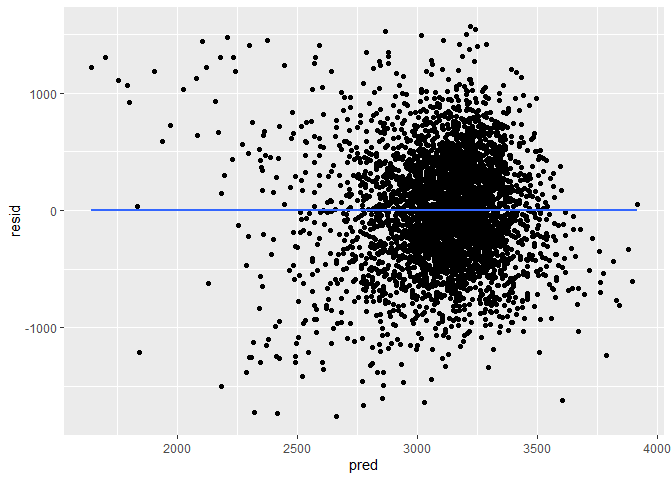
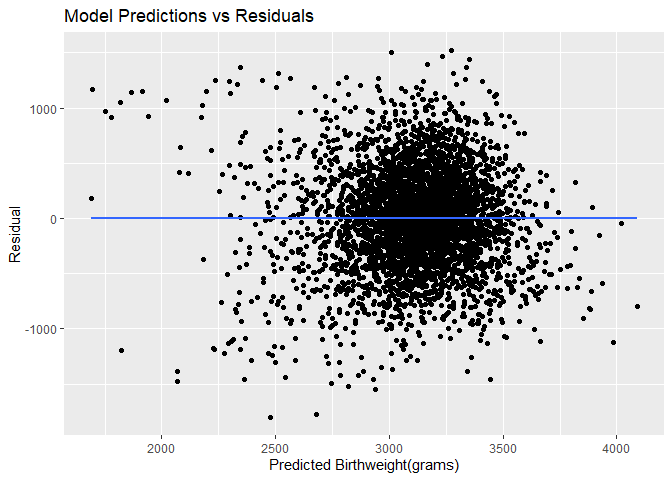
further edits on homework problems

diff --git a/p8105_hw6_ar4173.md b/p8105_hw6_ar4173.md
@@ -9,7 +9,8 @@ Importing Data and Checking Missing Data
 
 ``` r
 birthweight =
-  read_csv(file = "./data/birthweight.csv")
+  read_csv(file = "./data/birthweight.csv") %>% 
+  drop_na()
 ```
 
     ## Rows: 4342 Columns: 20
@@ -43,7 +44,7 @@ birthweight %>%
 str(birthweight_df)
 ```
 
-    ## spec_tbl_df [4,342 x 20] (S3: spec_tbl_df/tbl_df/tbl/data.frame)
+    ## tibble [4,342 x 20] (S3: tbl_df/tbl/data.frame)
     ##  $ babysex : Factor w/ 2 levels "male","female": 2 1 2 1 2 1 2 2 1 1 ...
     ##  $ bhead   : num [1:4342] 34 34 36 34 34 33 33 33 36 33 ...
     ##  $ blength : num [1:4342] 51 48 50 52 52 52 46 49 52 50 ...
@@ -64,104 +65,92 @@ str(birthweight_df)
     ##  $ ppwt    : num [1:4342] 148 128 137 127 130 115 105 119 105 145 ...
     ##  $ smoken  : num [1:4342] 0 0 1 10 1 0 0 0 0 4 ...
     ##  $ wtgain  : num [1:4342] 29 28 11 30 26 14 21 21 41 24 ...
-    ##  - attr(*, "spec")=
-    ##   .. cols(
-    ##   ..   babysex = col_double(),
-    ##   ..   bhead = col_double(),
-    ##   ..   blength = col_double(),
-    ##   ..   bwt = col_double(),
-    ##   ..   delwt = col_double(),
-    ##   ..   fincome = col_double(),
-    ##   ..   frace = col_double(),
-    ##   ..   gaweeks = col_double(),
-    ##   ..   malform = col_double(),
-    ##   ..   menarche = col_double(),
-    ##   ..   mheight = col_double(),
-    ##   ..   momage = col_double(),
-    ##   ..   mrace = col_double(),
-    ##   ..   parity = col_double(),
-    ##   ..   pnumlbw = col_double(),
-    ##   ..   pnumsga = col_double(),
-    ##   ..   ppbmi = col_double(),
-    ##   ..   ppwt = col_double(),
-    ##   ..   smoken = col_double(),
-    ##   ..   wtgain = col_double()
-    ##   .. )
-    ##  - attr(*, "problems")=<externalptr>
 
 Model Building
 
-Included the following models in my model as I hypothesized they would
-have an impact on the baby’s birth weight
+Included the following variables in my model as I hypothesized they
+would have an impact on the baby’s birth weight
 
 gaweeks: Gestational Age in Weeks, I hypothesize that the longer the
-gestational age is the greater the baby birthweight momage: Mother’s age
-at delivery(years), I hypothesize that as the age of the mother
-increases, the baby’s birthweight decreases malform: Presence of
-malformations that could affect weight (0 = absent, 1 = present), I
-hypothesize that the presence of malformations will decrease the baby’s
-birthweighth on average smoken: average number of cigarettes smoked per
-day during pregnancy, I hypothesize that the greater the average number
-of smoked ciagrettes per day, the lower the baby birthweight
-smoken\*malform: Interaction term between average number of cigarettes
-smoked and presence of malformations, I hypoethsize the interaction is
-significant
+gestational age is the greater the baby birth weight wtgain: mother’s
+weight gain during pregnancy(pounds), I hypothesize that the greater the
+weight gain during pregnancy, the greater the baby’s birth weight
+momage: Mother’s age at delivery(years), I hypothesize that as the age
+of the mother increases, the baby’s birth weight decreases malform:
+Presence of malformations that could affect weight (0 = absent, 1 =
+present), I hypothesize that the presence of malformations will decrease
+the baby’s birth weight on average smoken: average number of cigarettes
+smoked per day during pregnancy, I hypothesize that the greater the
+average number of smoked cigarettes per day, the lower the baby birth
+weight smoken\*malform: Interaction term between average number of
+cigarettes smoked and presence of malformations, I hypothesize the
+interaction is significant
 
 ``` r
-fit_mod= lm(bwt ~ gaweeks +  momage + malform + smoken + (smoken*malform), data = birthweight_df )
+fit_mod= lm(bwt ~ gaweeks+ wtgain + momage + malform + smoken + (smoken*malform), data = birthweight_df )
 fit_mod %>% broom::tidy()
 ```
 
-    ## # A tibble: 6 x 5
+    ## # A tibble: 7 x 5
     ##   term                  estimate std.error statistic   p.value
     ##   <chr>                    <dbl>     <dbl>     <dbl>     <dbl>
-    ## 1 (Intercept)             285.      92.0        3.10 1.92e-  3
-    ## 2 gaweeks                  65.8      2.24      29.4  1.53e-173
-    ## 3 momage                   12.9      1.82       7.05 2.04e- 12
-    ## 4 malformpresent          237.     154.         1.54 1.23e-  1
-    ## 5 smoken                   -6.61     0.953     -6.94 4.65e- 12
-    ## 6 malformpresent:smoken   -23.4     11.6       -2.02 4.39e-  2
+    ## 1 (Intercept)             224.      89.7        2.49 1.27e-  2
+    ## 2 gaweeks                  60.5      2.21      27.4  2.01e-152
+    ## 3 wtgain                    9.65     0.635     15.2  8.00e- 51
+    ## 4 momage                   15.9      1.79       8.86 1.10e- 18
+    ## 5 malformpresent          209.     150.         1.39 1.63e-  1
+    ## 6 smoken                   -6.99     0.929     -7.53 6.34e- 14
+    ## 7 malformpresent:smoken   -27.1     11.3       -2.39 1.70e-  2
 
 ``` r
-fit_mod %>% 
-  broom::glance()
+fit_mod %>% broom::glance()
 ```
 
     ## # A tibble: 1 x 12
     ##   r.squared adj.r.squared sigma statistic   p.value    df  logLik    AIC    BIC
     ##       <dbl>         <dbl> <dbl>     <dbl>     <dbl> <dbl>   <dbl>  <dbl>  <dbl>
-    ## 1     0.188         0.187  462.      201. 3.56e-193     5 -32796. 65606. 65651.
+    ## 1     0.229         0.228  450.      215. 1.17e-240     6 -32684. 65383. 65434.
     ## # ... with 3 more variables: deviance <dbl>, df.residual <int>, nobs <int>
-
-``` r
-fixed_mod = lm(bwt ~ blength + gaweeks, data=birthweight_df)
-interaction_mod = lm(bwt ~ bhead + blength + babysex + bhead*blength + bhead*babysex + blength*babysex, data=birthweight_df)
-```
 
 From analyzing the p-values and model coefficients, the predictor
 variables are significant with the exception of malformpresent.
 Malformpresent was the only variable that did not have a significant
-p-value (p-value = 0.1225)
+p-value (p-value = 0.1225). Though the overall r-squared is low for the
+model(r-squared = 22.92%), the p-value for the model is significant.
+Furthermore, given background literature and my hypothesis, we will
+proceed forward with these variables in the model.
 
 Now lets evaluate the residuals
 
 ``` r
+residual_plot =
 birthweight_df %>% 
   add_predictions(fit_mod) %>% 
   add_residuals(fit_mod) %>% 
   ggplot(aes(x=pred, y=resid)) +
   geom_point()  +
-  geom_smooth(method= "lm", se = FALSE)
+  geom_smooth(method= "lm", se = FALSE) +
+  labs(x= "Predicted Birthweight(grams)", y="Residual",title = "Model Predictions vs Residuals")
+
+residual_plot
 ```
 
     ## `geom_smooth()` using formula 'y ~ x'
 
 ![](p8105_hw6_ar4173_files/figure-gfm/unnamed-chunk-4-1.png)<!-- -->
 
-From looking at the graph we see that the residuals are randomly
-scattered and do not have a definitive trend. Thus
+From looking at the graph we see that the residuals are somewhat
+randomly scattered. There is a bit of clustering, which will be noted
+moving forward in our model building process.
 
 Now lets compare the created model to the other two models
+
+``` r
+fixed_mod = lm(bwt ~ blength + gaweeks, data=birthweight_df)
+interaction_mod = lm(bwt ~ bhead + blength + babysex + bhead*blength + bhead*babysex + blength*babysex, data=birthweight_df)
+```
+
+Cross Validate to Comparison Models
 
 ``` r
 set.seed(7777)
@@ -182,6 +171,7 @@ cv_df =
 ```
 
 ``` r
+cv_boxplot =
 cv_df %>% 
   select(starts_with("rmse")) %>% 
   pivot_longer(
@@ -191,13 +181,20 @@ cv_df %>%
     names_prefix = "rmse_") %>% 
   mutate(model = fct_inorder(model)) %>% 
   ggplot(aes(x = model, y = rmse)) + geom_boxplot()
+
+cv_boxplot
 ```
 
-![](p8105_hw6_ar4173_files/figure-gfm/unnamed-chunk-6-1.png)<!-- -->
+![](p8105_hw6_ar4173_files/figure-gfm/unnamed-chunk-7-1.png)<!-- -->
+
+By analyzing the box plot, we see that the RMSE of the constructed model
+is much greater than compared to the other two models. Based on these
+results, we should revisit the model we constructed and possibly adjust
+or add predictor variables.
 
 ## Problem 2
 
-Importing Dataset
+Importing Data set
 
 ``` r
 weather_df = 
@@ -253,11 +250,75 @@ as_data_frame(bootstrap_weather$strap[[1]])
     ## 10 CentralPark_NY USW00094728 2017-08-07   193  21.7  17.8
     ## # ... with 355 more rows
 
+Calculating r^2 and log(β<sup>0∗β</sup>1) for each bootstrap sample
+
 ``` r
 bootstrap_results=
 bootstrap_weather %>% 
   mutate(
     models = map(strap, ~lm(tmax ~ tmin, data=.x)),
     results = map(models, broom::tidy),
-    glance = map(models, broom::glance))
+    glance = map(models, broom::glance)) %>% 
+  select(-strap,-models) %>% 
+  unnest(glance,results) %>% 
+  group_by(.id)
 ```
+
+    ## Warning: unnest() has a new interface. See ?unnest for details.
+    ## Try `df %>% unnest(c(glance, results))`, with `mutate()` if needed
+
+``` r
+bootstrap = 
+  bootstrap_results %>% 
+  select(.id, estimate, term, r.squared, adj.r.squared) %>% 
+  pivot_wider(names_from = term, values_from = estimate) %>% 
+  janitor::clean_names() %>% 
+  mutate(log_var = log(intercept * tmin)) 
+```
+
+Distributions of R^2 and log(β<sup>0∗β</sup>1)
+
+``` r
+r_squared_distribution = 
+  bootstrap %>% 
+  ggplot(aes(x = r_squared)) +
+  geom_density(alpha = 0.2) +  
+  labs(title = "Distribution of r2")
+
+r_squared_distribution
+```
+
+![](p8105_hw6_ar4173_files/figure-gfm/unnamed-chunk-12-1.png)<!-- -->
+
+``` r
+log_var_distribution =
+  bootstrap %>% 
+  ggplot(aes(x = log_var)) +
+  geom_density(alpha = 0.2) +
+  labs(title = "Distribution of log_var")
+
+log_var_distribution
+```
+
+![](p8105_hw6_ar4173_files/figure-gfm/unnamed-chunk-13-1.png)<!-- -->
+
+Both distributions look approximately normal.
+
+``` r
+r_squared_bounds = 
+  quantile(pull(bootstrap, r_squared), probs = c(.025, 0.975), names = FALSE, type = 4)
+
+log_var_bounds = 
+  quantile(pull(bootstrap, log_var), probs = c(.025, 0.975), names = FALSE, type = 4)
+
+data.frame(estimate = c("r_squared", "log_var"),
+          lower_bound = c(r_squared_bounds[[1]], log_var_bounds[[1]]),
+          upper_bound = c(r_squared_bounds[[2]], log_var_bounds[[2]]))
+```
+
+    ##    estimate lower_bound upper_bound
+    ## 1 r_squared   0.8943079   0.9269558
+    ## 2   log_var   1.9642005   2.0583901
+
+The bounds of log\_var are 1.97 and 2.06. The bounds for r-squared are
+0.89 and 0.93.
